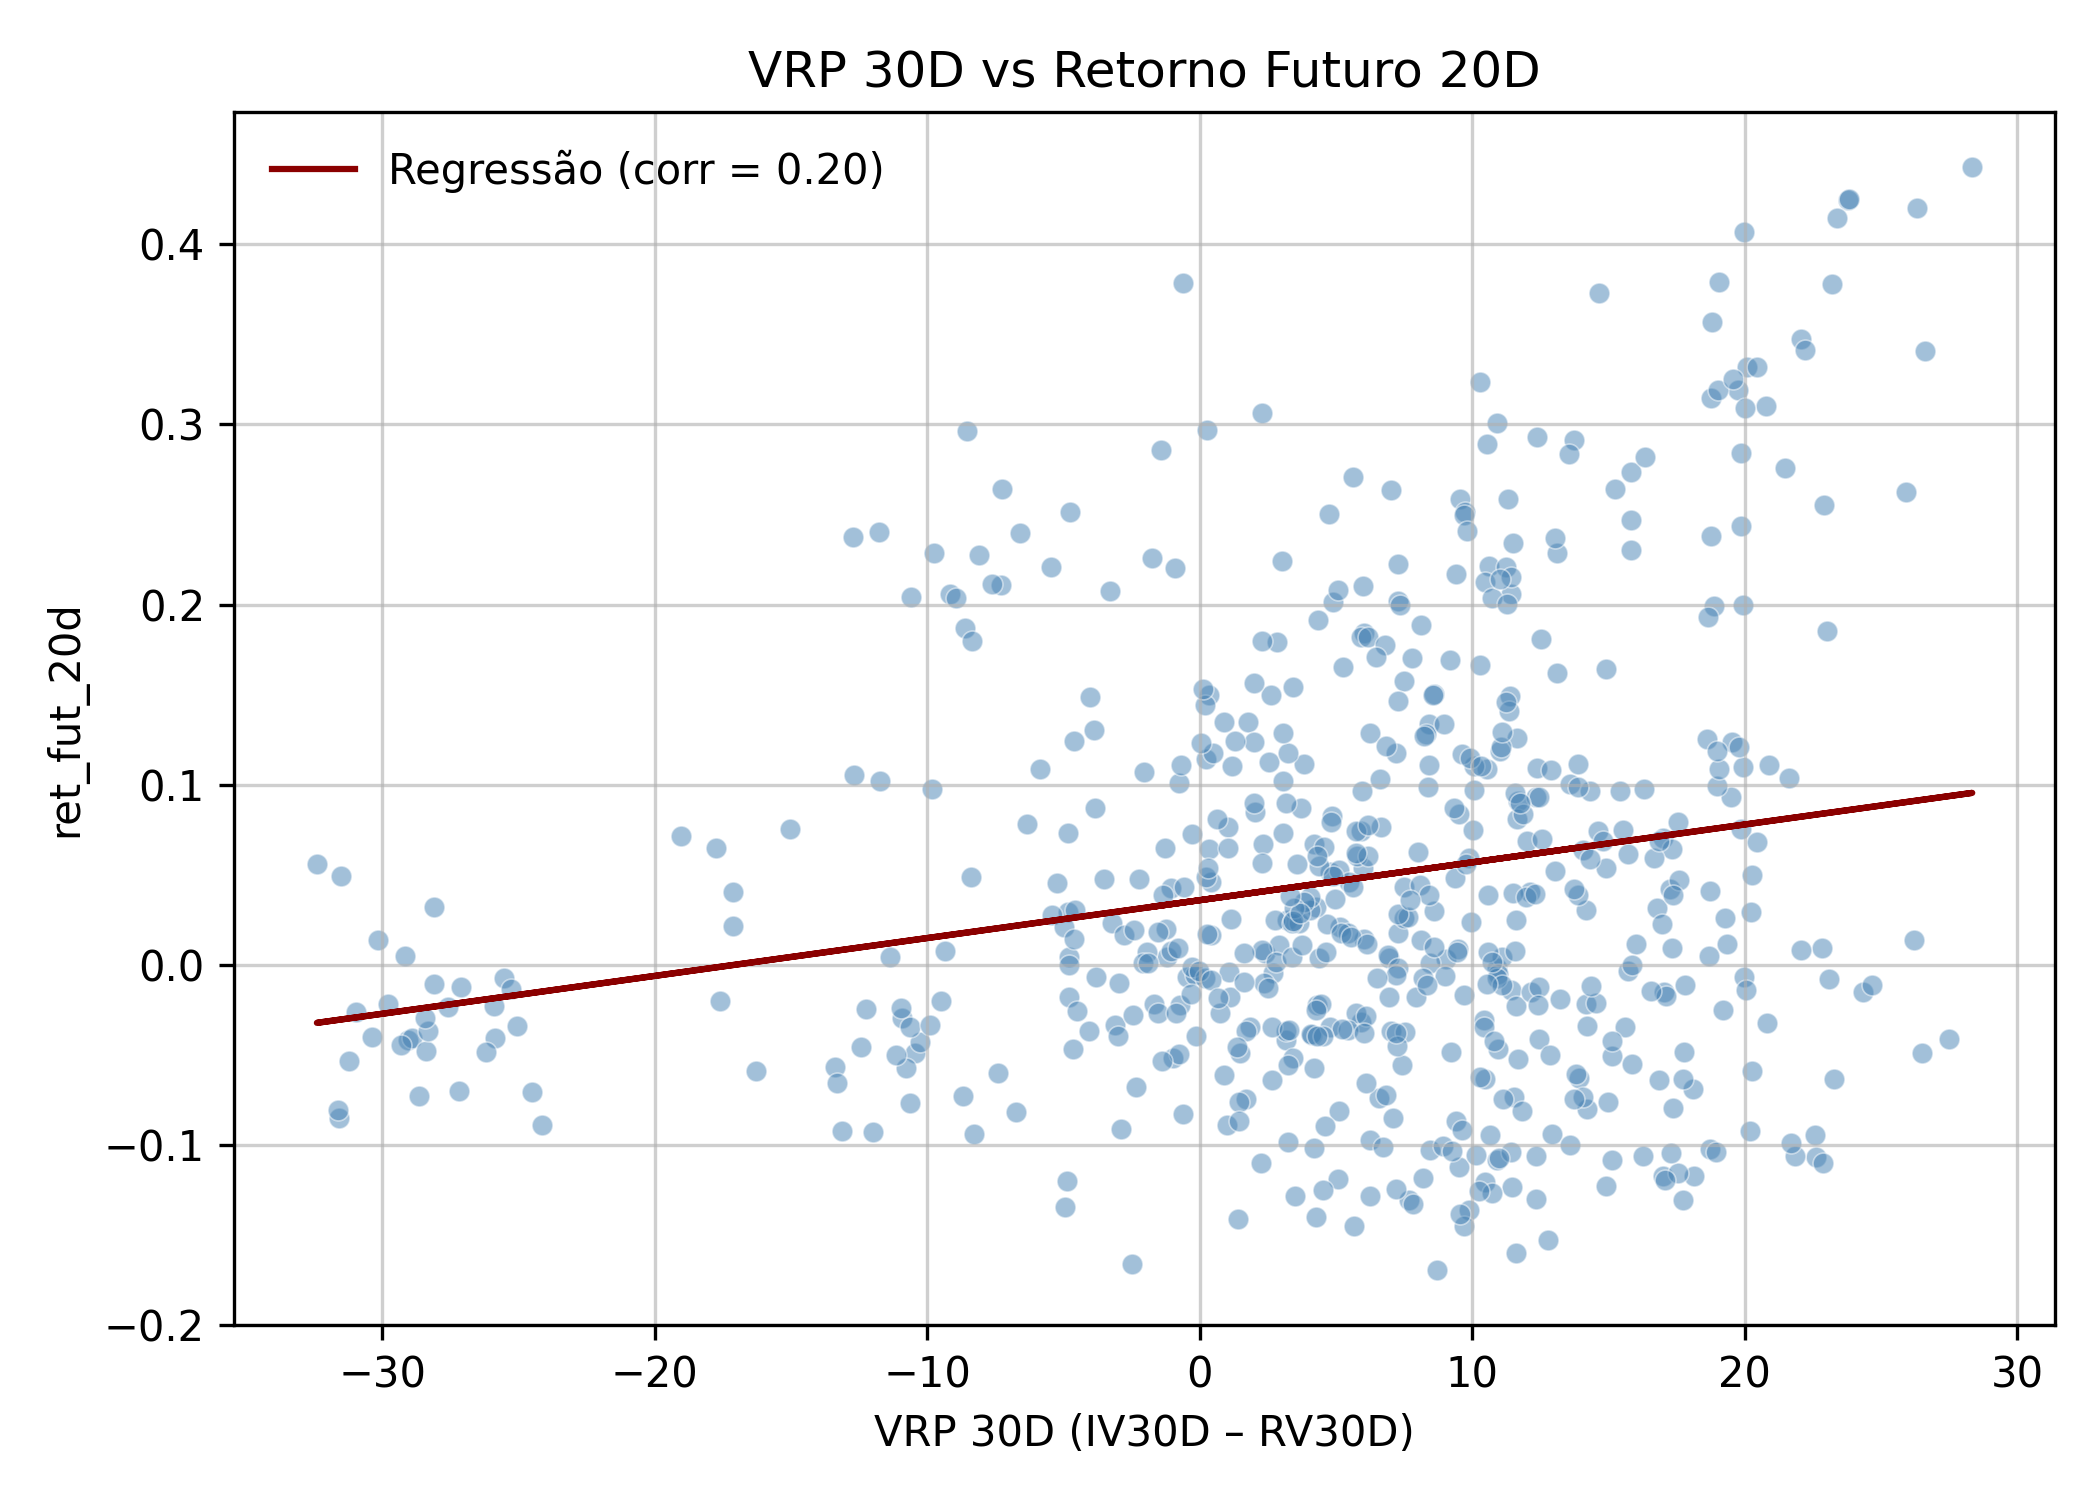
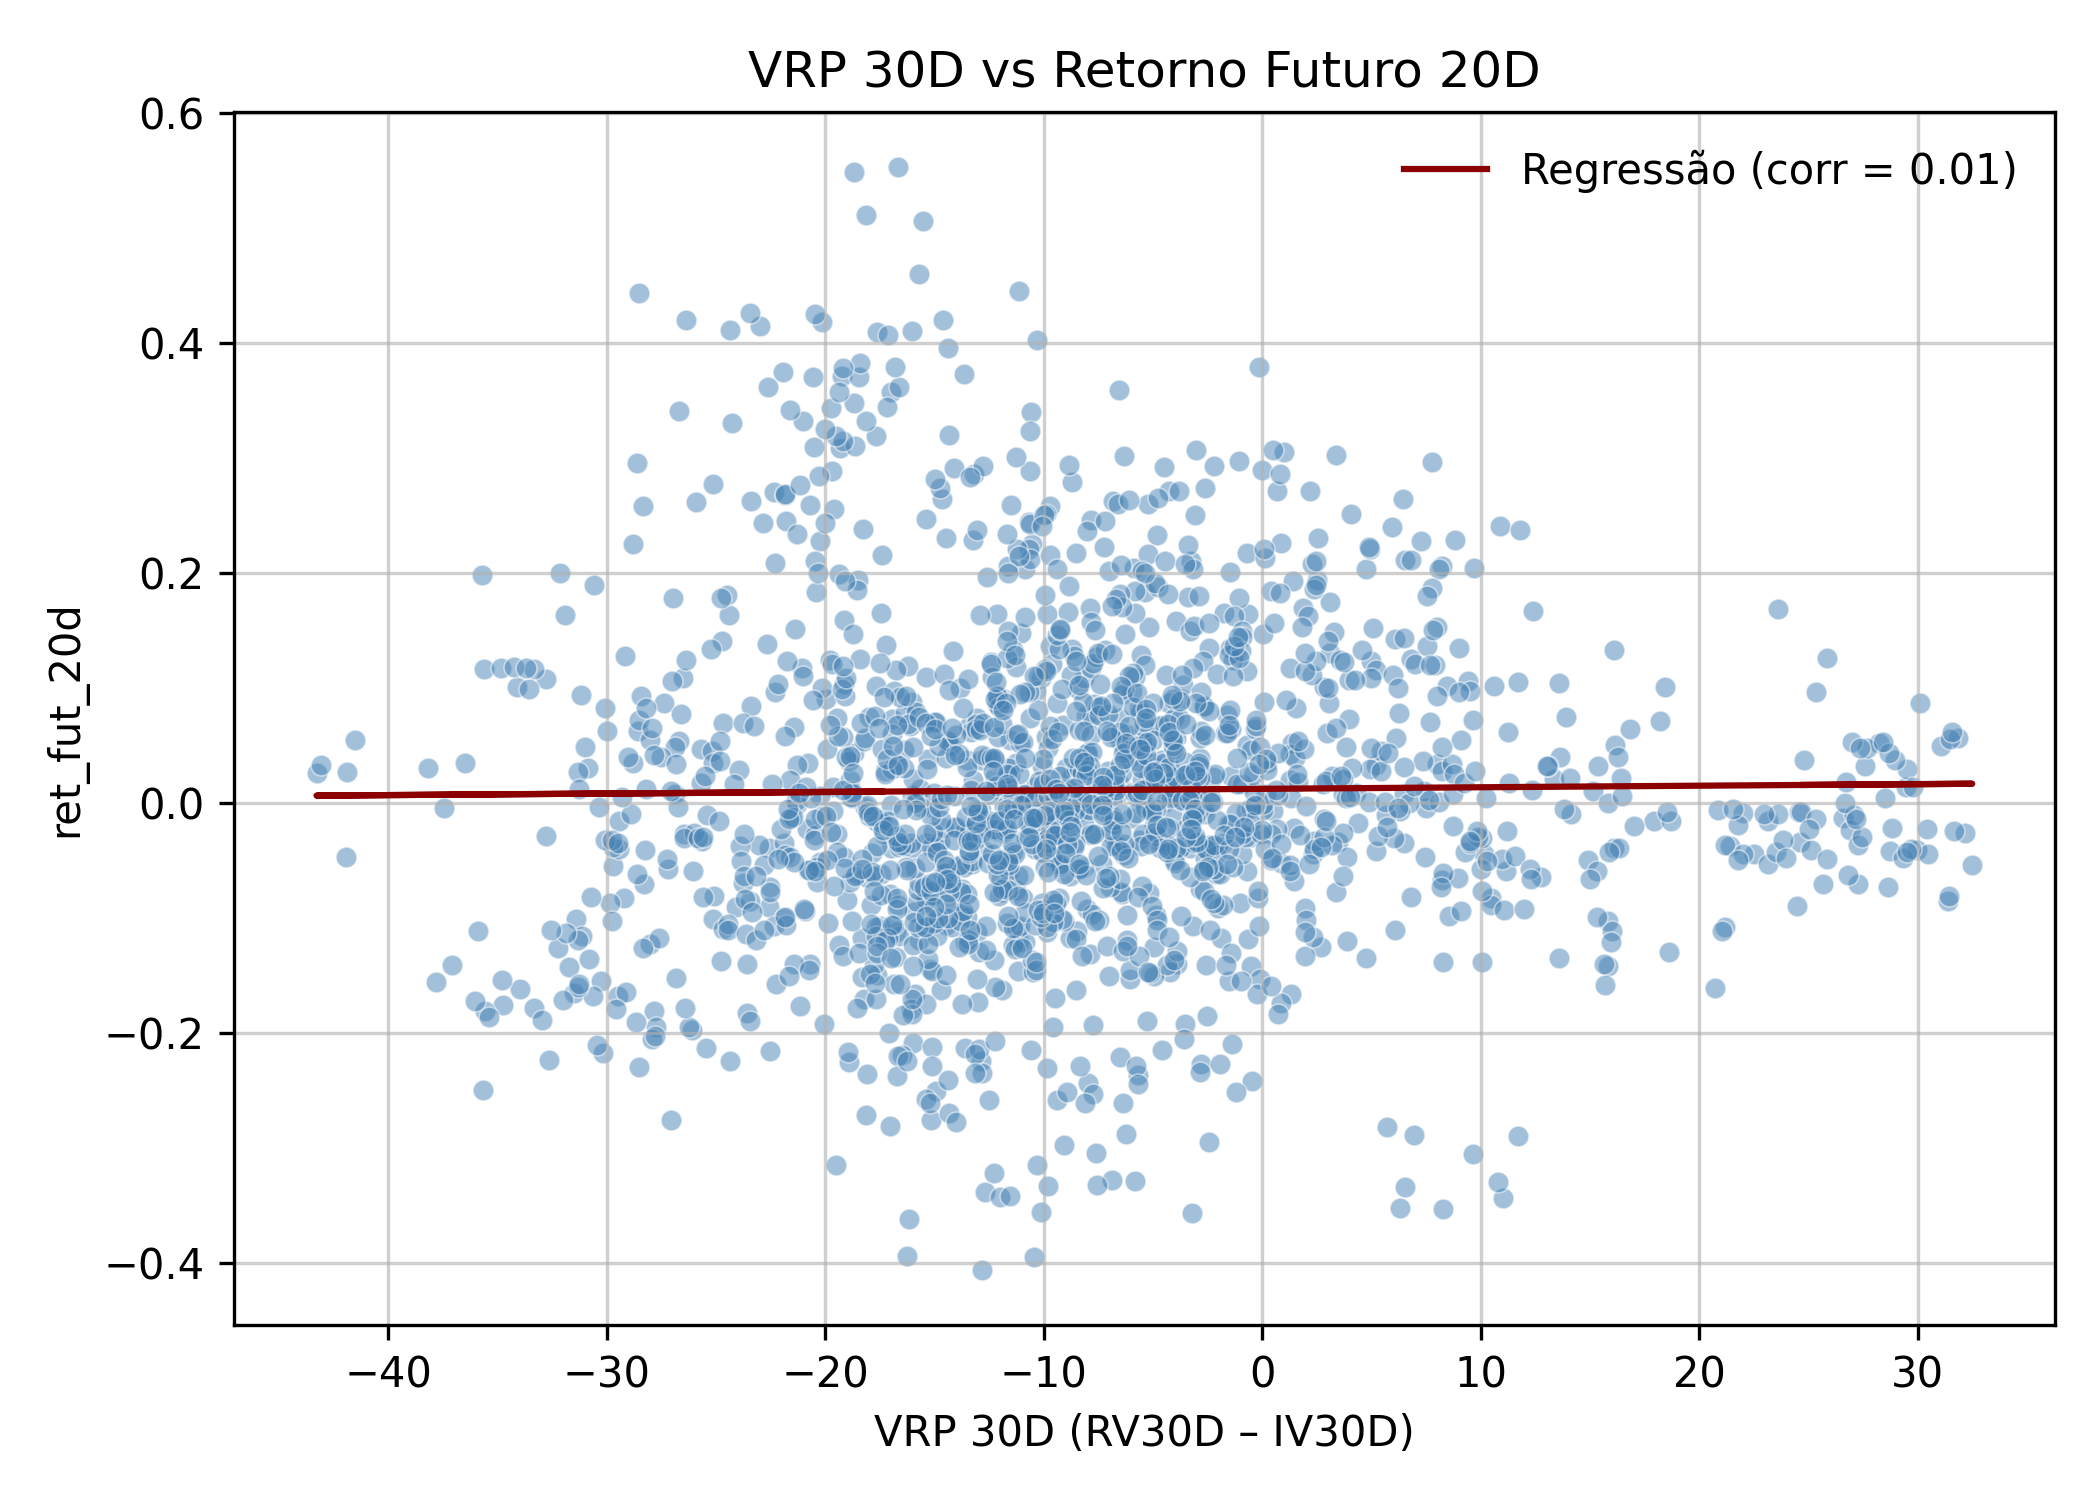
fix(cap3): regenera figuras com sinal correto RV-IV, corrige rotulos de eixo e comentarios
As 4 figuras em figs/cap3/ (vrp_timeseries, vrp_histogram_kde, vrp_boxplot,
vrp_vs_return_20d) eram de 02/05/2026 -- 14 dias ANTES da correcao de sinal
em build_vrp_dataset.py (16/05/2026, "Decisao 1 - Fase 0"). O calculo e o
dado em disco ja estavam certos (RV-IV); as imagens salvas eram fosseis da
convencao antiga (IV-RV), nunca regeneradas.

- build_vrp_dataset.py: corrige docstring (L87) e rotulo interno (L143) de
  "VRP30D = IV30D - RV30D" para "RV30D - IV30D" (nao afeta calculo, que ja
  estava certo desde a Decisao 1).
- plot_vrp_timeseries.py: corrige rotulos de eixo (2x) de "IV30D - RV30D"
  para "RV30D - IV30D".
- plot_vrp_vs_return.py: corrige rotulo de eixo E o path de saida, que
  salvava em "figuras/" (pasta que nenhum capitulo le) em vez de
  "figs/cap3/" -- bug separado que impedia a figura de chegar ao PDF
  mesmo se regenerada.
- Regenera as 4 figuras + as duas variantes (1d, 5d) que antes nunca
  tinham sido salvas no lugar certo.

Numeros no sinal correto (a reportar para reescrita do texto): skew=+0,59,
curtose excesso=+0,95, moda entre -5,4 e -2,9 (negativa), unimodal.
Correlacao BVRP x ret_fut_20d cai de +0,20 (figura antiga, sinal errado)
para +0,013, estatisticamente nula (p=0,59) -- nao inverte para negativa,
fica indistinguivel de zero. A narrativa da Secao 3.3 nao pode mais se
apoiar nessa correlacao.

Nao pushado -- texto do cap3_dados.tex (assimetria, curtose, modo,
bimodalidade, correlacao) ainda precisa ser reescrito para bater com estes
[…]

diff --git a/code/plot_vrp_timeseries.py b/code/plot_vrp_timeseries.py
@@ -38,7 +38,7 @@ def main():
 
     ax2 = ax1.twinx()
     ax2.plot(df["date"], df["vrp_30d"], color="steelblue", linewidth=1.0,
-             linestyle="--", alpha=0.7, label="VRP 30D (IV30D – RV30D)")
+             linestyle="--", alpha=0.7, label="VRP 30D (RV30D – IV30D)")
     ax2.set_ylabel("VRP 30D (p.p. de vol.)")
     ax2.axhline(0, color="gray", linewidth=0.7, linestyle=":")
 
@@ -61,7 +61,7 @@ def main():
     fig, ax = plt.subplots(figsize=(10, 5))
     sns.histplot(df["vrp_30d"], bins=30, kde=True, stat="density",
                  linewidth=0.5, color="steelblue", ax=ax)
-    ax.set_xlabel("VRP 30D (IV30D – RV30D)")
+    ax.set_xlabel("VRP 30D (RV30D – IV30D)")
     ax.set_ylabel("Densidade")
     ax.grid(True, alpha=0.6)
     fig.tight_layout()

diff --git a/code/build_vrp_dataset.py b/code/build_vrp_dataset.py
@@ -84,7 +84,7 @@ def build_vrp_dataset():
     - Lê preços do BTC (Binance) e DVOL 30D (Deribit)
     - Calcula RV30D (realized vol 30 dias, anualizada)
     - Faz merge por data
-    - Calcula VRP30D = IV30D - RV30D
+    - Calcula VRP30D = RV30D - IV30D
     - Salva em data/vrp_30d_dataset.csv
     - Gera estatísticas descritivas de RV30D, IV30D e VRP30D
     """
@@ -140,7 +140,7 @@ def build_vrp_dataset():
     )
 
     # deixa o índice bonito pra bater com a dissertação
-    stats.index = ["RV30D", "IV30D", "BVRP (IV30D - RV30D)"]
+    stats.index = ["RV30D", "IV30D", "BVRP (RV30D - IV30D)"]
 
     # renomeia colunas pra português e arredonda
     stats = stats.rename(

diff --git a/code/plot_vrp_vs_return.py b/code/plot_vrp_vs_return.py
@@ -33,7 +33,7 @@ def scatter_plot(df, x, y, title, out_path):
     )
 
     ax.set_title(title)
-    ax.set_xlabel("VRP 30D (IV30D – RV30D)")
+    ax.set_xlabel("VRP 30D (RV30D – IV30D)")
     ax.set_ylabel(y)
     ax.grid(True, alpha=0.6)
     ax.legend(frameon=False)
@@ -61,7 +61,7 @@ def main():
     df = df.sort_values("date").reset_index(drop=True)
 
     # Diretório de figuras
-    figs_dir = os.path.join(base_dir, "figuras")
+    figs_dir = os.path.join(base_dir, "figs", "cap3")
     os.makedirs(figs_dir, exist_ok=True)
 
     # ====== VRP(t) vs Retorno Futuro ======
